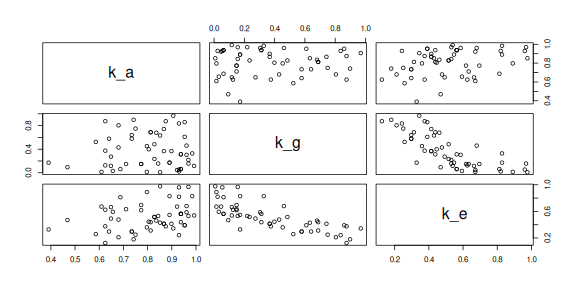
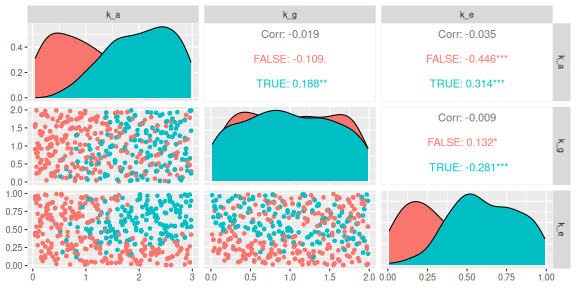
more work on alcohol UQ note

diff --git a/notes/alcsa.html b/notes/alcsa.html
@@ -79,6 +79,7 @@
 
 
 <div class="chunk" id="unnamed-chunk-2"><div class="rcode"><div class="source"><pre class="knitr r"><span class="hl kwd">library</span><span class="hl std">(tidyverse)</span>
+<span class="hl kwd">library</span><span class="hl std">(GGally)</span>
 <span class="hl kwd">library</span><span class="hl std">(deSolve)</span>
 </pre></div>
 </div></div>
@@ -168,9 +169,9 @@ interested only in maximum blood alcohol
 <span class="hl std">params</span> <span class="hl kwb">=</span> <span class="hl kwd">c</span><span class="hl std">(</span><span class="hl str">'k_a'</span><span class="hl std">,</span> <span class="hl str">'k_g'</span><span class="hl std">,</span> <span class="hl str">'k_e'</span><span class="hl std">)</span>
 <span class="hl std">mat</span> <span class="hl kwb">=</span> <span class="hl kwd">sobol_matrices</span><span class="hl std">(</span><span class="hl kwc">N</span> <span class="hl std">= N,</span> <span class="hl kwc">params</span> <span class="hl std">= params)</span>
 <span class="hl com">#rescale to assumed parameter ranges</span>
-<span class="hl com"># mat[,'k_a'] = 0.5 + (2 - 0.5) * mat[,'k_a'] # U(0.5, 2)</span>
-<span class="hl com"># mat[,'k_g'] = 0.0 + (0.2 - 0) * mat[,'k_g'] # U(0, 0.2)</span>
-<span class="hl com"># mat[,'k_e'] = 0.05 + (0.3 - 0.05) * mat[,'k_e'] # U(0.05, 0.3)</span>
+<span class="hl std">mat[,</span><span class="hl str">'k_a'</span><span class="hl std">]</span> <span class="hl kwb">=</span> <span class="hl std">mat[,</span><span class="hl str">'k_a'</span><span class="hl std">]</span> <span class="hl opt">*</span> <span class="hl num">3</span> <span class="hl com"># U(0, 3)</span>
+<span class="hl std">mat[,</span><span class="hl str">'k_g'</span><span class="hl std">]</span> <span class="hl kwb">=</span> <span class="hl std">mat[,</span><span class="hl str">'k_g'</span><span class="hl std">]</span> <span class="hl opt">*</span> <span class="hl num">2</span> <span class="hl com"># U(0, 2)</span>
+<span class="hl std">mat[,</span><span class="hl str">'k_e'</span><span class="hl std">]</span> <span class="hl kwb">=</span> <span class="hl std">mat[,</span><span class="hl str">'k_e'</span><span class="hl std">]</span> <span class="hl opt">*</span> <span class="hl num">1</span> <span class="hl com"># U(0, 1)</span>
 <span class="hl std">Y</span> <span class="hl kwb">=</span> <span class="hl kwd">sim_mat</span><span class="hl std">(mat)</span>
 <span class="hl std">sensobol_ind</span> <span class="hl kwb">=</span> <span class="hl kwd">sobol_indices</span><span class="hl std">(</span><span class="hl kwc">Y</span> <span class="hl std">= Y,</span> <span class="hl kwc">N</span> <span class="hl std">= N,</span> <span class="hl kwc">params</span> <span class="hl std">= params,</span> <span class="hl kwc">order</span><span class="hl std">=</span><span class="hl str">'first'</span><span class="hl std">,</span>
                              <span class="hl kwc">boot</span><span class="hl std">=</span><span class="hl num">TRUE</span><span class="hl std">,</span> <span class="hl kwc">R</span><span class="hl std">=</span><span class="hl num">5000</span><span class="hl std">)</span>
@@ -182,9 +183,9 @@ interested only in maximum blood alcohol
   <span class="hl kwd">print</span><span class="hl std">(</span><span class="hl kwc">digits</span><span class="hl std">=</span><span class="hl num">3</span><span class="hl std">)</span>
 </pre></div>
 <div class="output"><pre class="knitr r">##    original std.error low.ci high.ci parameters
-## 1:    0.616    0.0948 0.4236   0.795        k_a
-## 2:    0.129    0.0219 0.0853   0.171        k_g
-## 3:    0.281    0.0476 0.1850   0.372        k_e
+## 1:    0.686    0.0960  0.492   0.868        k_a
+## 2:    0.156    0.0242  0.106   0.201        k_g
+## 3:    0.162    0.0288  0.104   0.217        k_e
 </pre></div>
 <div class="source"><pre class="knitr r"><span class="hl kwd">cbind</span><span class="hl std">(mat, Y)</span> <span class="hl opt">%&gt;%</span>
   <span class="hl std">as_tibble</span> <span class="hl opt">%&gt;%</span>
@@ -214,7 +215,7 @@ interested only in maximum blood alcohol
 
 <div class="chunk" id="unnamed-chunk-3"><div class="rcode"><div class="source"><pre class="knitr r"><span class="hl kwd">mean</span><span class="hl std">(Y</span> <span class="hl opt">&gt;</span> <span class="hl num">4.5</span> <span class="hl opt">&amp;</span> <span class="hl std">Y</span> <span class="hl opt">&lt;</span> <span class="hl num">13.5</span><span class="hl std">)</span>
 </pre></div>
-<div class="output"><pre class="knitr r">## [1] 0.304
+<div class="output"><pre class="knitr r">## [1] 0.656
 </pre></div>
 </div></div>
 
@@ -226,10 +227,9 @@ About 30% of our parameters produce maximum alcohol amounts in this range. In ot
 </pre></div>
 </div><div class="rimage default"><img src="fig/alcsa.Rhtml-nroy-1.png" alt="plot of chunk nroy" class="plot" /></div><div class="rcode">
 <div class="source"><pre class="knitr r"><span class="hl kwd">cbind</span><span class="hl std">(mat, Y)</span> <span class="hl opt">%&gt;%</span> <span class="hl std">as_tibble</span> <span class="hl opt">%&gt;%</span>
-  <span class="hl kwd">filter</span><span class="hl std">(Y</span><span class="hl opt">&gt;</span><span class="hl num">4.5</span> <span class="hl opt">&amp;</span> <span class="hl std">Y</span> <span class="hl opt">&lt;</span> <span class="hl num">13.5</span><span class="hl std">)</span> <span class="hl opt">%&gt;%</span>
-  <span class="hl kwd">select</span><span class="hl std">(</span><span class="hl opt">-</span><span class="hl std">Y)</span> <span class="hl opt">%&gt;%</span>
-  <span class="hl kwd">as.matrix</span><span class="hl std">()</span> <span class="hl opt">%&gt;%</span>
-  <span class="hl kwd">pairs</span><span class="hl std">()</span>
+  <span class="hl kwd">mutate</span><span class="hl std">(</span><span class="hl kwc">nroy</span> <span class="hl std">= Y</span><span class="hl opt">&gt;</span><span class="hl num">4.5</span> <span class="hl opt">&amp;</span> <span class="hl std">Y</span> <span class="hl opt">&lt;</span> <span class="hl num">13.5</span><span class="hl std">)</span> <span class="hl opt">%&gt;%</span>
+  <span class="hl kwd">ggpairs</span><span class="hl std">(</span><span class="hl kwc">columns</span><span class="hl std">=</span><span class="hl kwd">c</span><span class="hl std">(</span><span class="hl str">'k_a'</span><span class="hl std">,</span> <span class="hl str">'k_g'</span><span class="hl std">,</span> <span class="hl str">'k_e'</span><span class="hl std">),</span>
+          <span class="hl kwc">mapping</span><span class="hl std">=</span><span class="hl kwd">aes</span><span class="hl std">(</span><span class="hl kwc">colour</span><span class="hl std">=nroy))</span>
 </pre></div>
 </div><div class="rimage default"><img src="fig/alcsa.Rhtml-nroy-2.png" alt="plot of chunk nroy" class="plot" /></div></div>
 
@@ -267,20 +267,16 @@ Maybe we can further constrain based on the duration of feeling tipsy. For most 
 <span class="hl kwd">print</span><span class="hl std">(</span><span class="hl kwc">digits</span><span class="hl std">=</span><span class="hl num">3</span><span class="hl std">)</span>
 </pre></div>
 <div class="output"><pre class="knitr r">##    original std.error low.ci high.ci parameters
-## 1:    0.357    0.1080  0.140   0.563        k_a
-## 2:    0.172    0.0511  0.068   0.268        k_g
-## 3:    0.842    0.1292  0.582   1.088        k_e
+## 1:    0.241    0.0676 0.1048   0.370        k_a
+## 2:    0.151    0.0528 0.0442   0.251        k_g
+## 3:    0.761    0.0923 0.5787   0.940        k_e
 </pre></div>
 <div class="source"><pre class="knitr r"><span class="hl kwd">cbind</span><span class="hl std">(mat, Y, Y2)</span> <span class="hl opt">%&gt;%</span> <span class="hl std">as_tibble</span> <span class="hl opt">%&gt;%</span>
-<span class="hl kwd">filter</span><span class="hl std">(Y</span><span class="hl opt">&gt;</span><span class="hl num">4.5</span> <span class="hl opt">&amp;</span> <span class="hl std">Y</span> <span class="hl opt">&lt;</span> <span class="hl num">13.5</span> <span class="hl opt">&amp;</span> <span class="hl std">Y2</span><span class="hl opt">&gt;</span><span class="hl num">0.5</span> <span class="hl opt">&amp;</span> <span class="hl std">Y2</span> <span class="hl opt">&lt;</span> <span class="hl num">3</span><span class="hl std">)</span> <span class="hl opt">%&gt;%</span>
-<span class="hl kwd">select</span><span class="hl std">(</span><span class="hl opt">-</span><span class="hl std">Y,</span> <span class="hl opt">-</span><span class="hl std">Y2)</span> <span class="hl opt">%&gt;%</span>
-<span class="hl kwd">as.matrix</span><span class="hl std">()</span> <span class="hl opt">%&gt;%</span>
-<span class="hl kwd">pairs</span><span class="hl std">()</span>
+  <span class="hl kwd">mutate</span><span class="hl std">(</span><span class="hl kwc">nroy</span> <span class="hl std">= Y</span> <span class="hl opt">&gt;</span> <span class="hl num">4.5</span> <span class="hl opt">&amp;</span> <span class="hl std">Y</span> <span class="hl opt">&lt;</span> <span class="hl num">13.5</span> <span class="hl opt">&amp;</span> <span class="hl std">Y2</span> <span class="hl opt">&gt;</span> <span class="hl num">0.5</span> <span class="hl opt">&amp;</span> <span class="hl std">Y2</span> <span class="hl opt">&lt;</span> <span class="hl num">3</span><span class="hl std">)</span> <span class="hl opt">%&gt;%</span>
+  <span class="hl kwd">ggpairs</span><span class="hl std">(</span><span class="hl kwc">columns</span><span class="hl std">=</span><span class="hl kwd">c</span><span class="hl std">(</span><span class="hl str">'k_a'</span><span class="hl std">,</span> <span class="hl str">'k_g'</span><span class="hl std">,</span> <span class="hl str">'k_e'</span><span class="hl std">),</span>
+          <span class="hl kwc">mapping</span><span class="hl std">=</span><span class="hl kwd">aes</span><span class="hl std">(</span><span class="hl kwc">colour</span><span class="hl std">=nroy))</span>
 </pre></div>
 </div><div class="rimage default"><img src="fig/alcsa.Rhtml-history-matching-1.png" alt="plot of chunk history-matching" class="plot" /></div></div>
-
-
-
 
 
 
